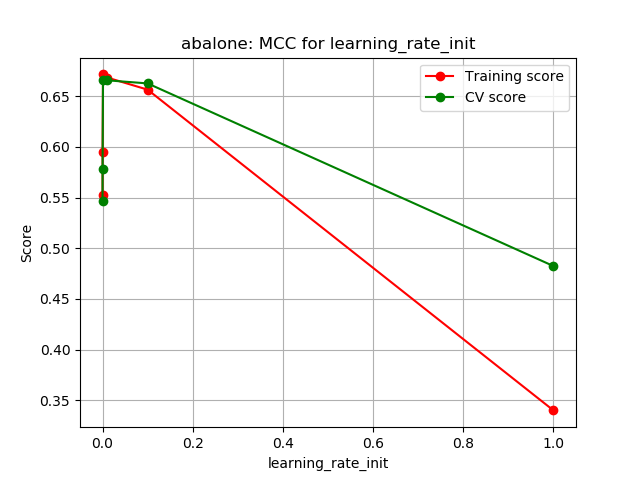
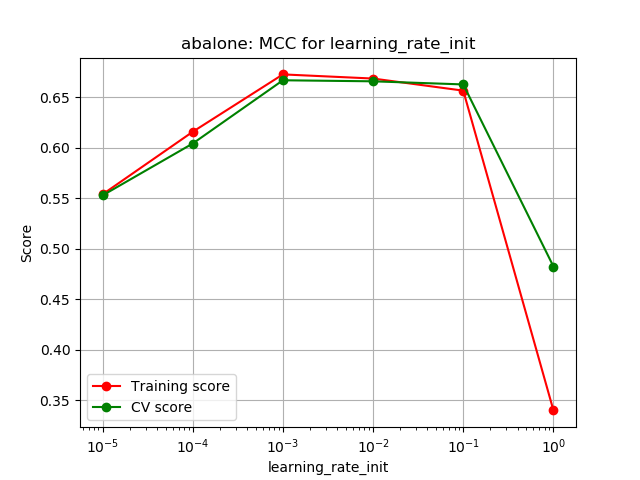
Change to log scale

diff --git a/a1-supervised-learning/dataset_processing.py b/a1-supervised-learning/dataset_processing.py
@@ -189,13 +189,16 @@ def train_times(estimator, X, y, train_sizes, cv=None):
     return train_times_df
 
 
-def plot_model_complexity_charts(train_scores, test_scores, title, hp_name, ylim=None):
+def plot_model_complexity_charts(train_scores, test_scores, title, hp_name, ylim=None, xscale_type=None):
     plt.figure()
     plt.title(title)
     plt.xlabel(hp_name)
     plt.ylabel("Score")
+
     if ylim is not None:
         plt.ylim(*ylim)
+    if xscale_type is not None:
+        plt.xscale(xscale_type)
     plt.grid()
 
     plt.plot(train_scores, 'o-', color="r", label="Training score")

diff --git a/a1-supervised-learning/neural_network.py b/a1-supervised-learning/neural_network.py
@@ -140,7 +140,7 @@ def run_experiment(dataset_name, X_train, X_test, y_train, y_test, verbose=False
 
     data_proc.plot_model_complexity_charts(
         learning_rate_init_mc['train'], learning_rate_init_mc['cv'],
-        dataset_name + ': MCC for ' + hp, hp)
+        dataset_name + ': MCC for ' + hp, hp, xscale_type='log')
 
     if show_plots:
         plt.show()
